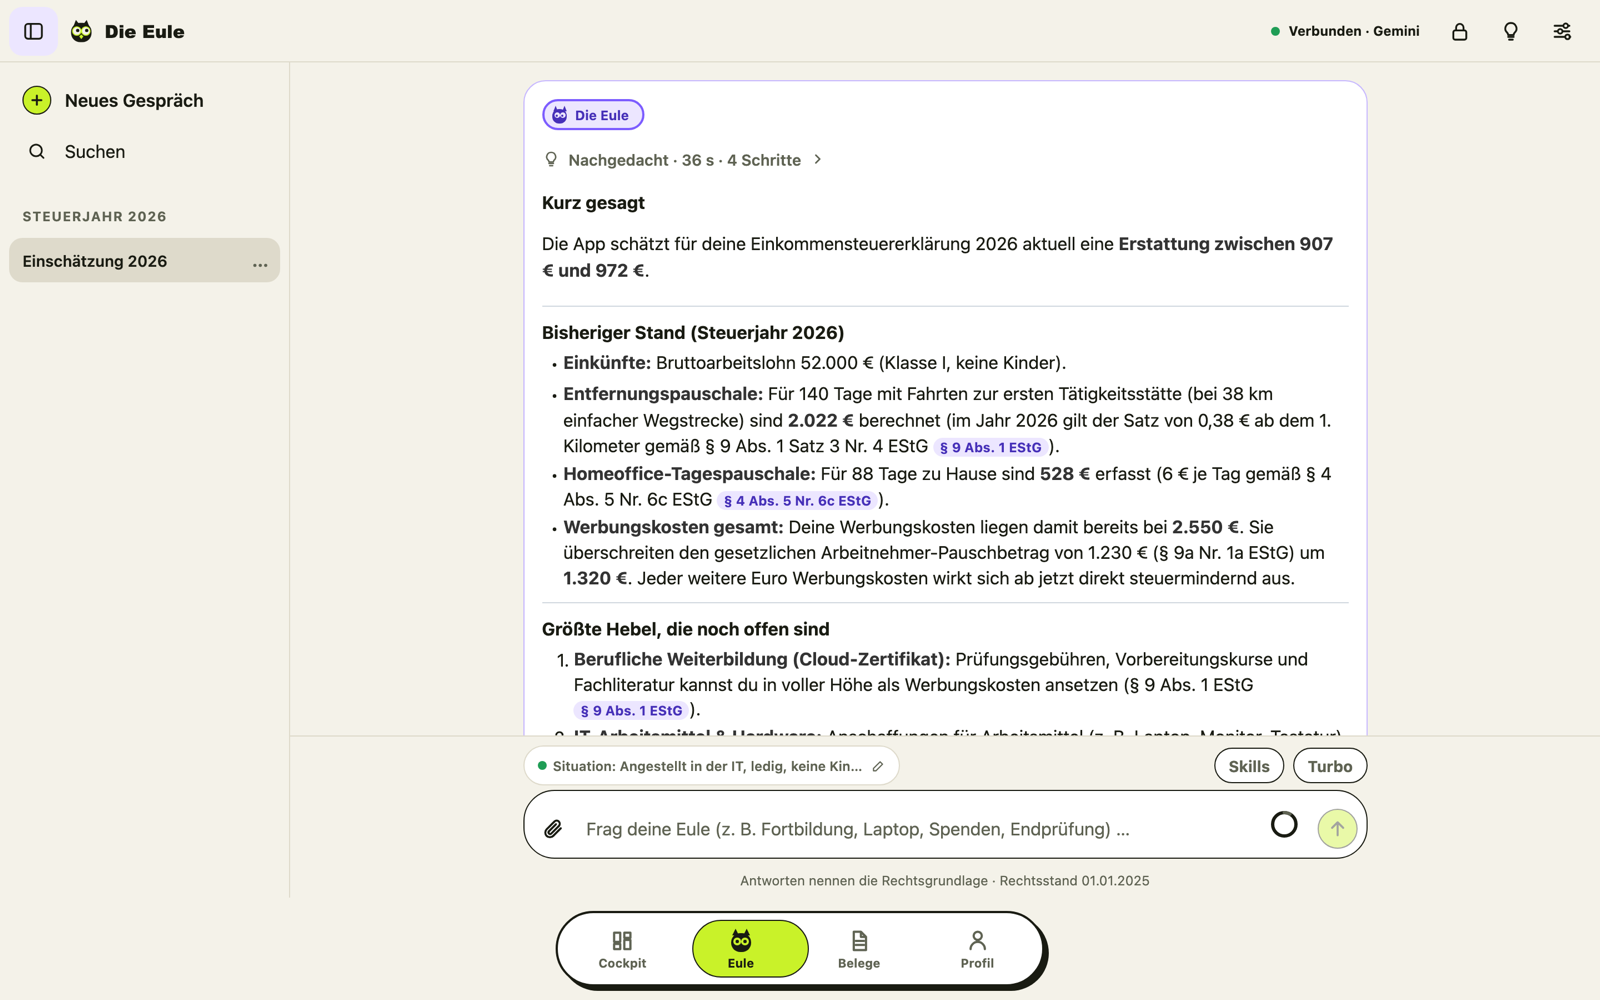
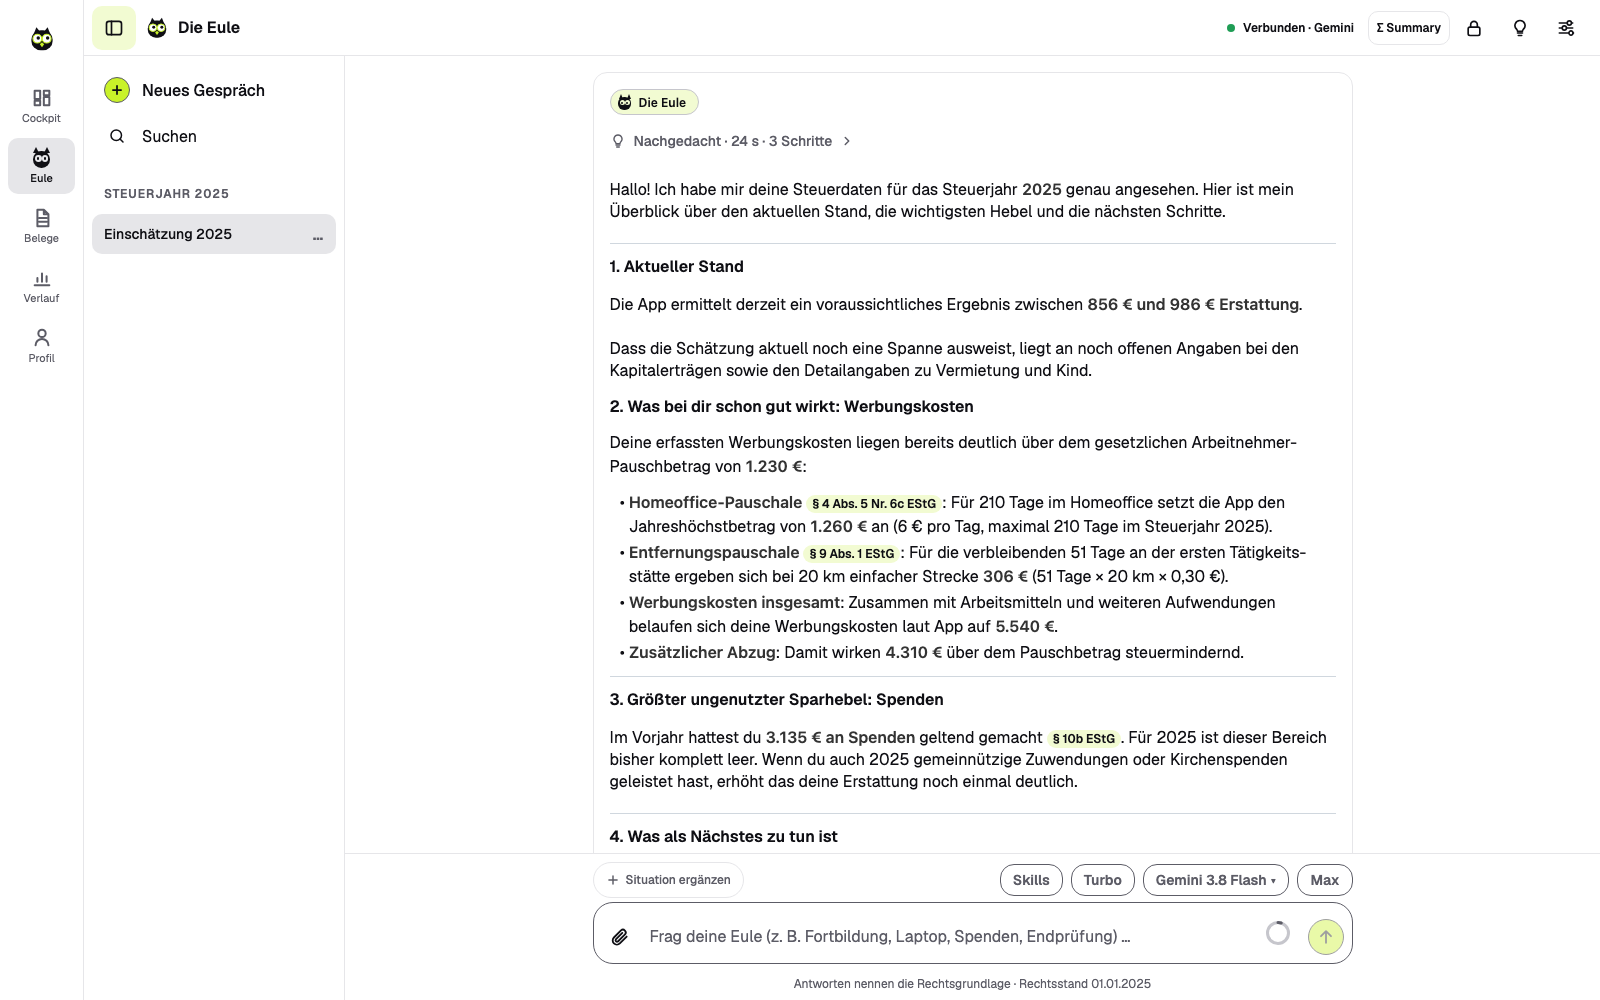
docs(readme): the owl's opening analysis and the /grill-me round in the Graphit look
The two images that needed a model answer still showed the old design. Both are retaken from a local stack with invented seed data; alt texts and the quoted thinking line follow what the images show.

diff --git a/README.md b/README.md
@@ -19,7 +19,7 @@
 </p>
 
 <p align="center">
-  <img src="images/screenshots/eule-eroeffnung.png" width="900" alt="The owl opens a new conversation with an analysis of the case: estimated refund 907–972 €, commute and home-office allowances, work expenses against the lump sum, each with its paragraph" />
+  <img src="images/screenshots/eule-eroeffnung.png" width="900" alt="The owl opens a new conversation with an analysis of the case: estimated refund 856–986 €, home-office and commute allowances with their paragraphs as chips, work expenses against the lump sum, donations as the lever still unused" />
 </p>
 <p align="center"><sub><b>The owl speaks first.</b> Open a conversation and she analyses your return before you ask. Every euro in the text comes from the deterministic engine, not the language model.</sub></p>
 
@@ -45,13 +45,13 @@ The owl is a tax advisor in a chat, built like Claude: the conversation is the m
 - **Figures from the engine, words from the model.** The estimate, the commute and home-office allowances and the work expenses are computed by [`@steuereule/core`](packages/core/) before the model is asked; they are the only amounts she may name. Every answer is checked without a model, and an opening that names an amount the app did not compute is written again.
 - **`/grill-me`.** The Berater-Interview skill asks in rounds, each with tappable answers and her recommendation; the answers become drafts the user approves.
 - **Drafts, not writes.** Everything she prepares is a draft with its computed effect on the refund; nothing reaches the return without a click (or Turbo, visible and undoable).
-- **Thinking shown.** "Nachgedacht · 36 s · 4 Schritte" opens to the steps she took and what each tool found.
+- **Thinking shown.** "Nachgedacht · 24 s · 3 Schritte" opens to the steps she took and what each tool found.
 - **Tax years as projects.** Conversations live in their year, side by side, with the household's situation and the year's notes as shared context; nothing that names a person reaches the model.
 
 | Empty chat, case unchanged | `/grill-me`: an interview round | On a phone |
 |:---:|:---:|:---:|
-| <img src="images/screenshots/eule-leer.png" width="300" alt="An empty conversation offering the last analysis and quick starts" /> | <img src="images/screenshots/eule-grill-me.png" width="300" alt="The Berater-Interview asks three questions with tappable answers and a recommendation" /> | <img src="images/screenshots/eule-handy.png" width="170" alt="The empty conversation on a phone: quick starts above the composer, the tab bar below" /> |
-| *Nothing changed since her last analysis: a link to it instead of a new one.* | *Rounds of questions with tappable answers and her recommendation.* | *Same chat, same rules, at 390 px.* |
+| <img src="images/screenshots/eule-leer.png" width="300" alt="An empty conversation offering the last analysis and quick starts" /> | <img src="images/screenshots/eule-grill-me.png" width="300" alt="The Berater-Interview asks four questions in one round, each with tappable answers" /> | <img src="images/screenshots/eule-handy.png" width="170" alt="The empty conversation on a phone: quick starts above the composer, the tab bar below" /> |
+| *Nothing changed since her last analysis: a link to it instead of a new one.* | *A round of questions with tappable answers.* | *Same chat, same rules, at 390 px.* |
 
 ---
 
